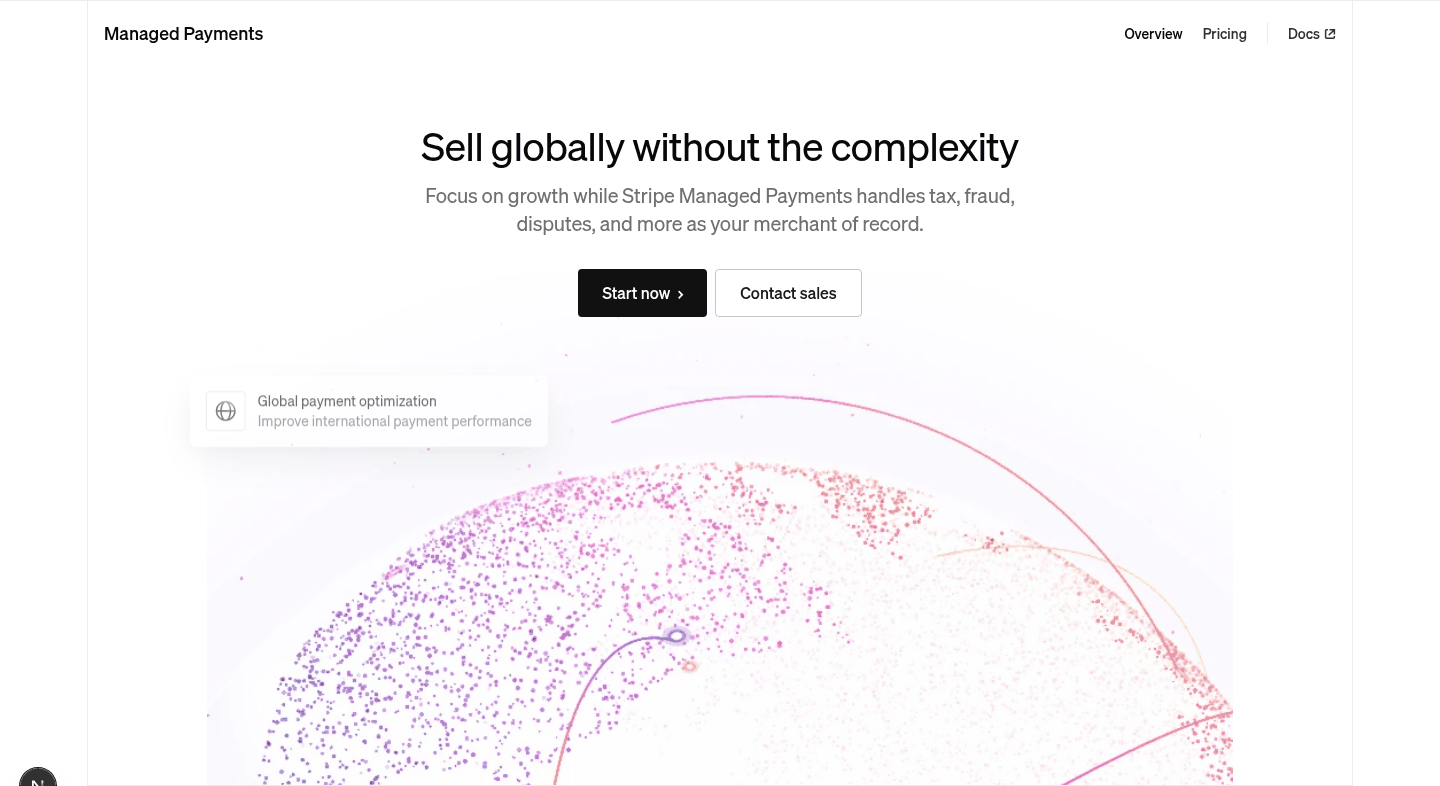
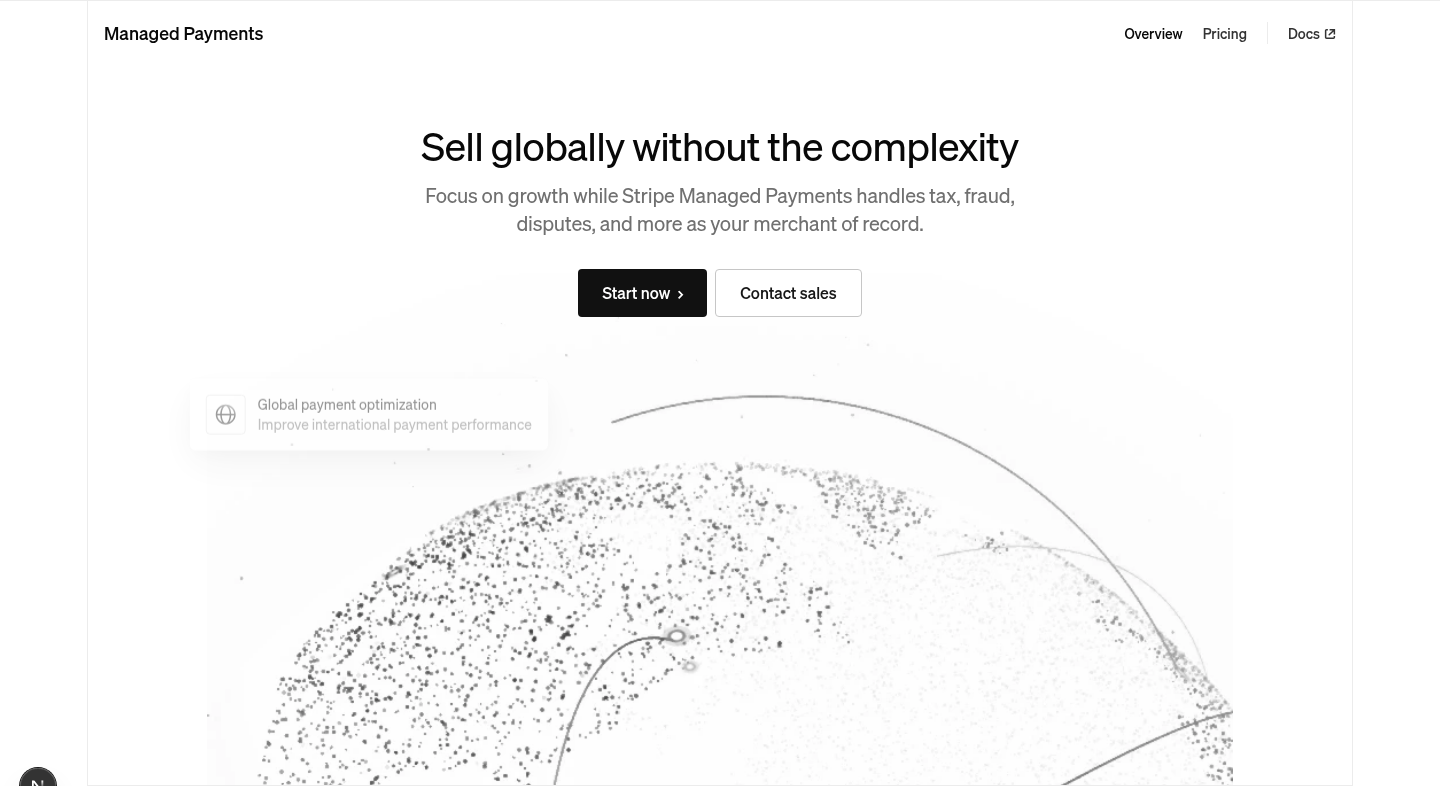
managed-payments: monochrome globe fallback image
Claude-Session: https://claude.ai/code/session_01S81nJoueE7k8PBqsTAyhHg

diff --git a/src/components/sites/stripe-com-9ababc9a/hds/managed-payments/hero.ts b/src/components/sites/stripe-com-9ababc9a/hds/managed-payments/hero.ts
@@ -24,8 +24,8 @@ import { HERO_GLOBE_PROPS, MAP_DOTS_URL } from "./globe/config";
 import { flagSvg } from "./globe/flags";
 import { gpuSupportsGlobe } from "./globe/capabilities";
 
-/** GlobeFallback image (the reference's money-movement-fallback_2x.png, local copy). */
-const FALLBACK_SRC = "/stripe/money-movement-fallback_2x-w894-1283768c.webp";
+/** GlobeFallback image: the reference money-movement-fallback_2x.png, mono copy (qa/managed-payments-mono-fallback.py). */
+const FALLBACK_SRC = "/sites/stripe-com-9ababc9a/managed-payments/globe-fallback-mono.webp";
 const FLAG_POOL = 10;
 const ARC_UI_POOL = 5;
 

diff --git a/scripts/forensics/products/qa/managed-payments-mono-fallback.py b/scripts/forensics/products/qa/managed-payments-mono-fallback.py
@@ -1,0 +1,23 @@
+"""Monochrome copy of the globe fallback image for /managed-payments, using the project's ribbon
+hue -> luminance map (scripts/mono-assets.py hue_map + LIGHT_KEYS: violet -> charcoal, pink -> mid grey,
+coral -> light grey). Source: public/stripe/money-movement-fallback_2x-w894-1283768c.webp (the reference
+GlobeFallback image). Output: public/sites/stripe-com-9ababc9a/managed-payments/globe-fallback-mono.webp
+Run: python3 scripts/forensics/products/qa/managed-payments-mono-fallback.py
+"""
+import importlib.util
+import os
+
+import numpy as np
+from PIL import Image
+
+ROOT = os.path.dirname(os.path.dirname(os.path.dirname(os.path.dirname(os.path.dirname(os.path.abspath(__file__))))))
+spec = importlib.util.spec_from_file_location("mono_assets", os.path.join(ROOT, "scripts", "mono-assets.py"))
+mono = importlib.util.module_from_spec(spec)
+spec.loader.exec_module(mono)
+
+src = os.path.join(ROOT, "public", "stripe", "money-movement-fallback_2x-w894-1283768c.webp")
+dst = os.path.join(ROOT, "public", "sites", "stripe-com-9ababc9a", "managed-payments", "globe-fallback-mono.webp")
+a = np.asarray(Image.open(src).convert("RGB")).astype(np.float64) / 255
+v = mono.hue_map(a, mono.LIGHT_KEYS)
+Image.fromarray((np.clip(np.repeat(v[..., None], 3, -1), 0, 1) * 255).round().astype(np.uint8), "RGB").save(dst, quality=92)
+print(dst, os.path.getsize(dst))
